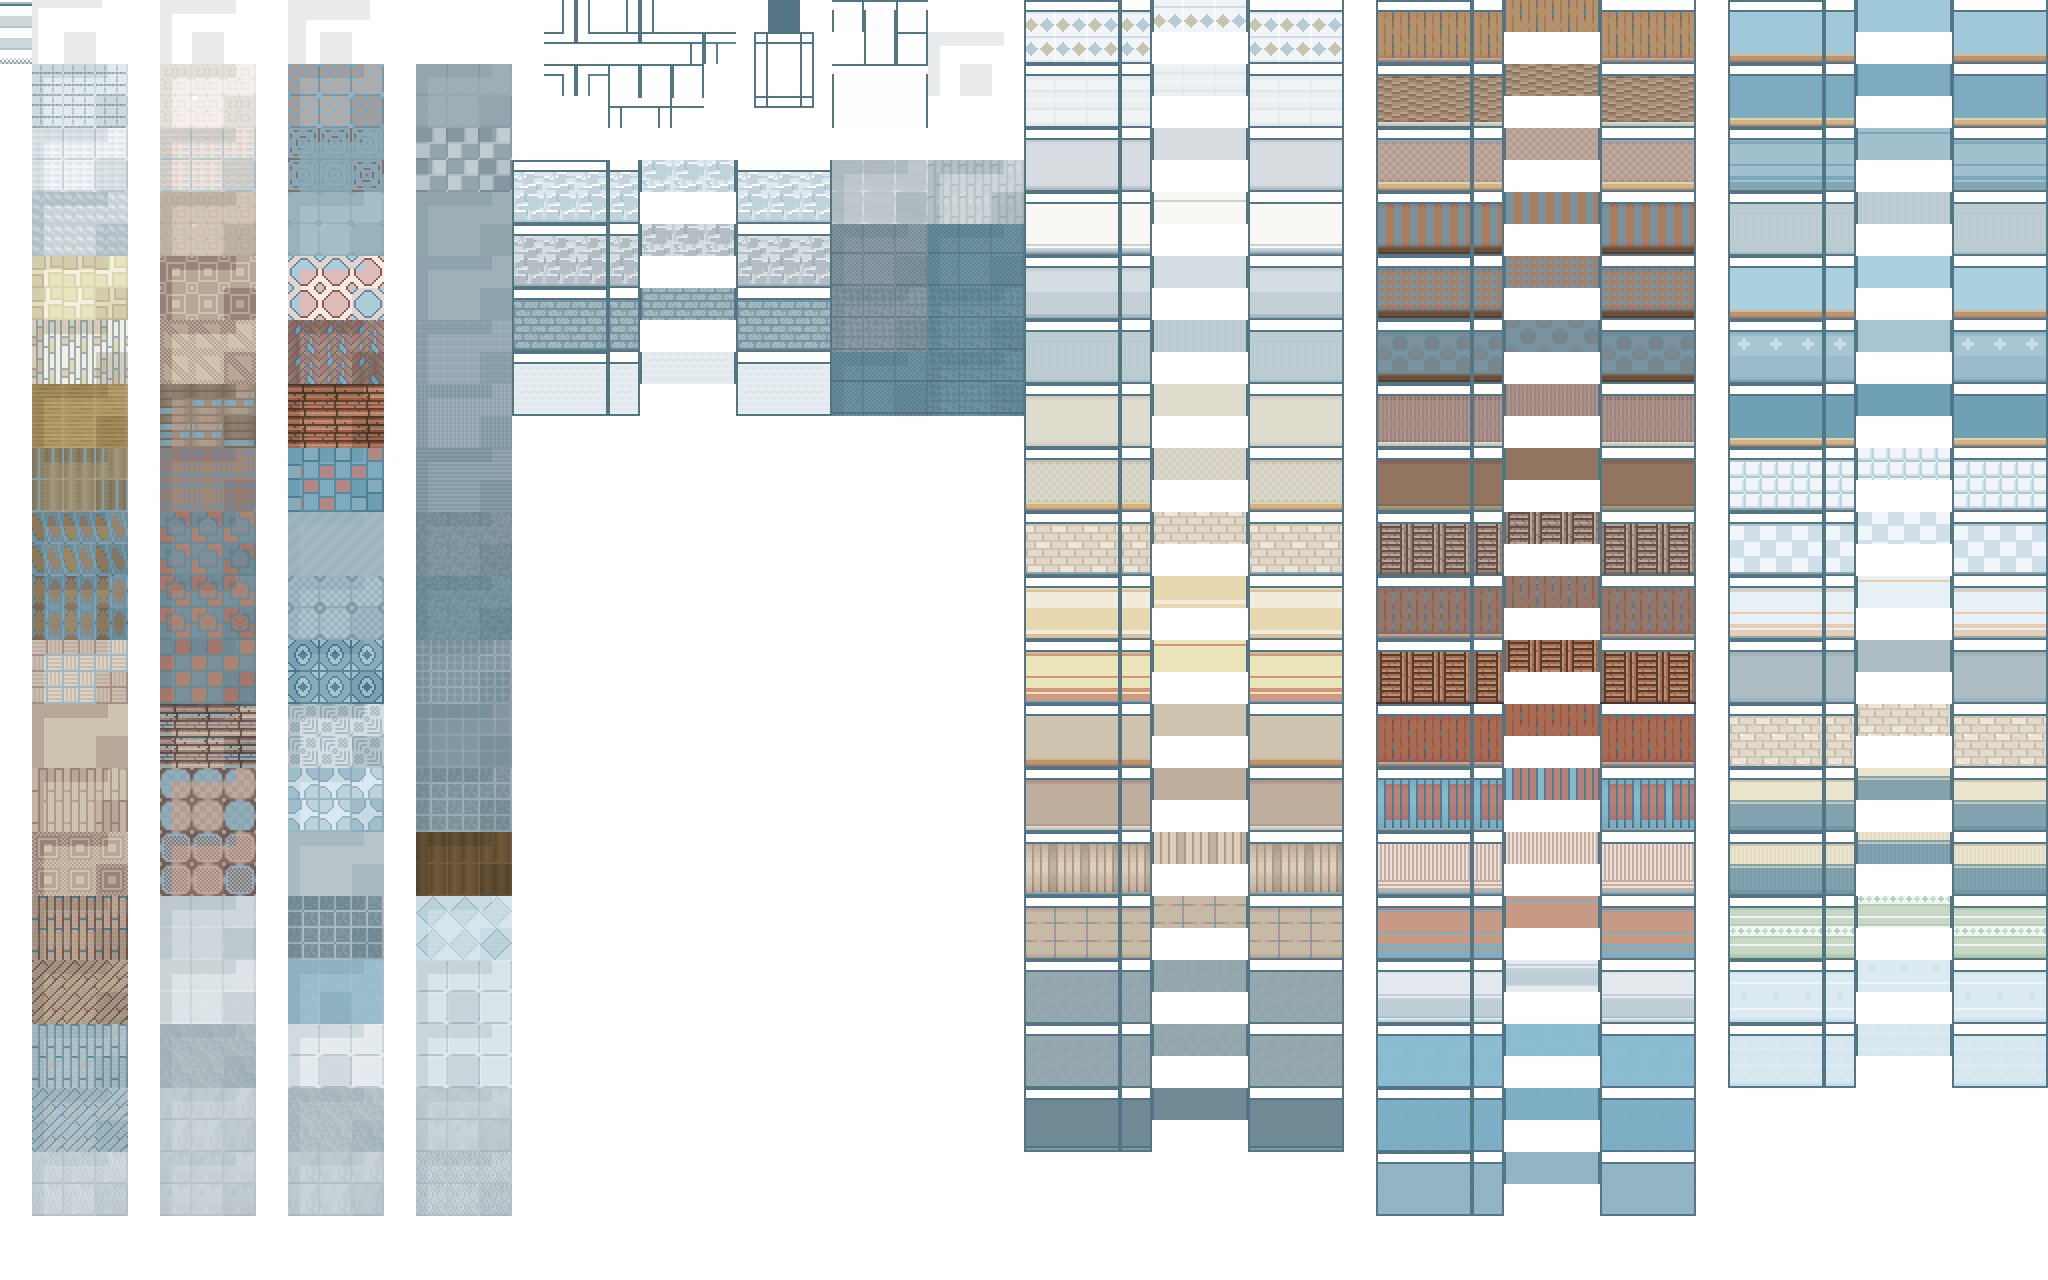
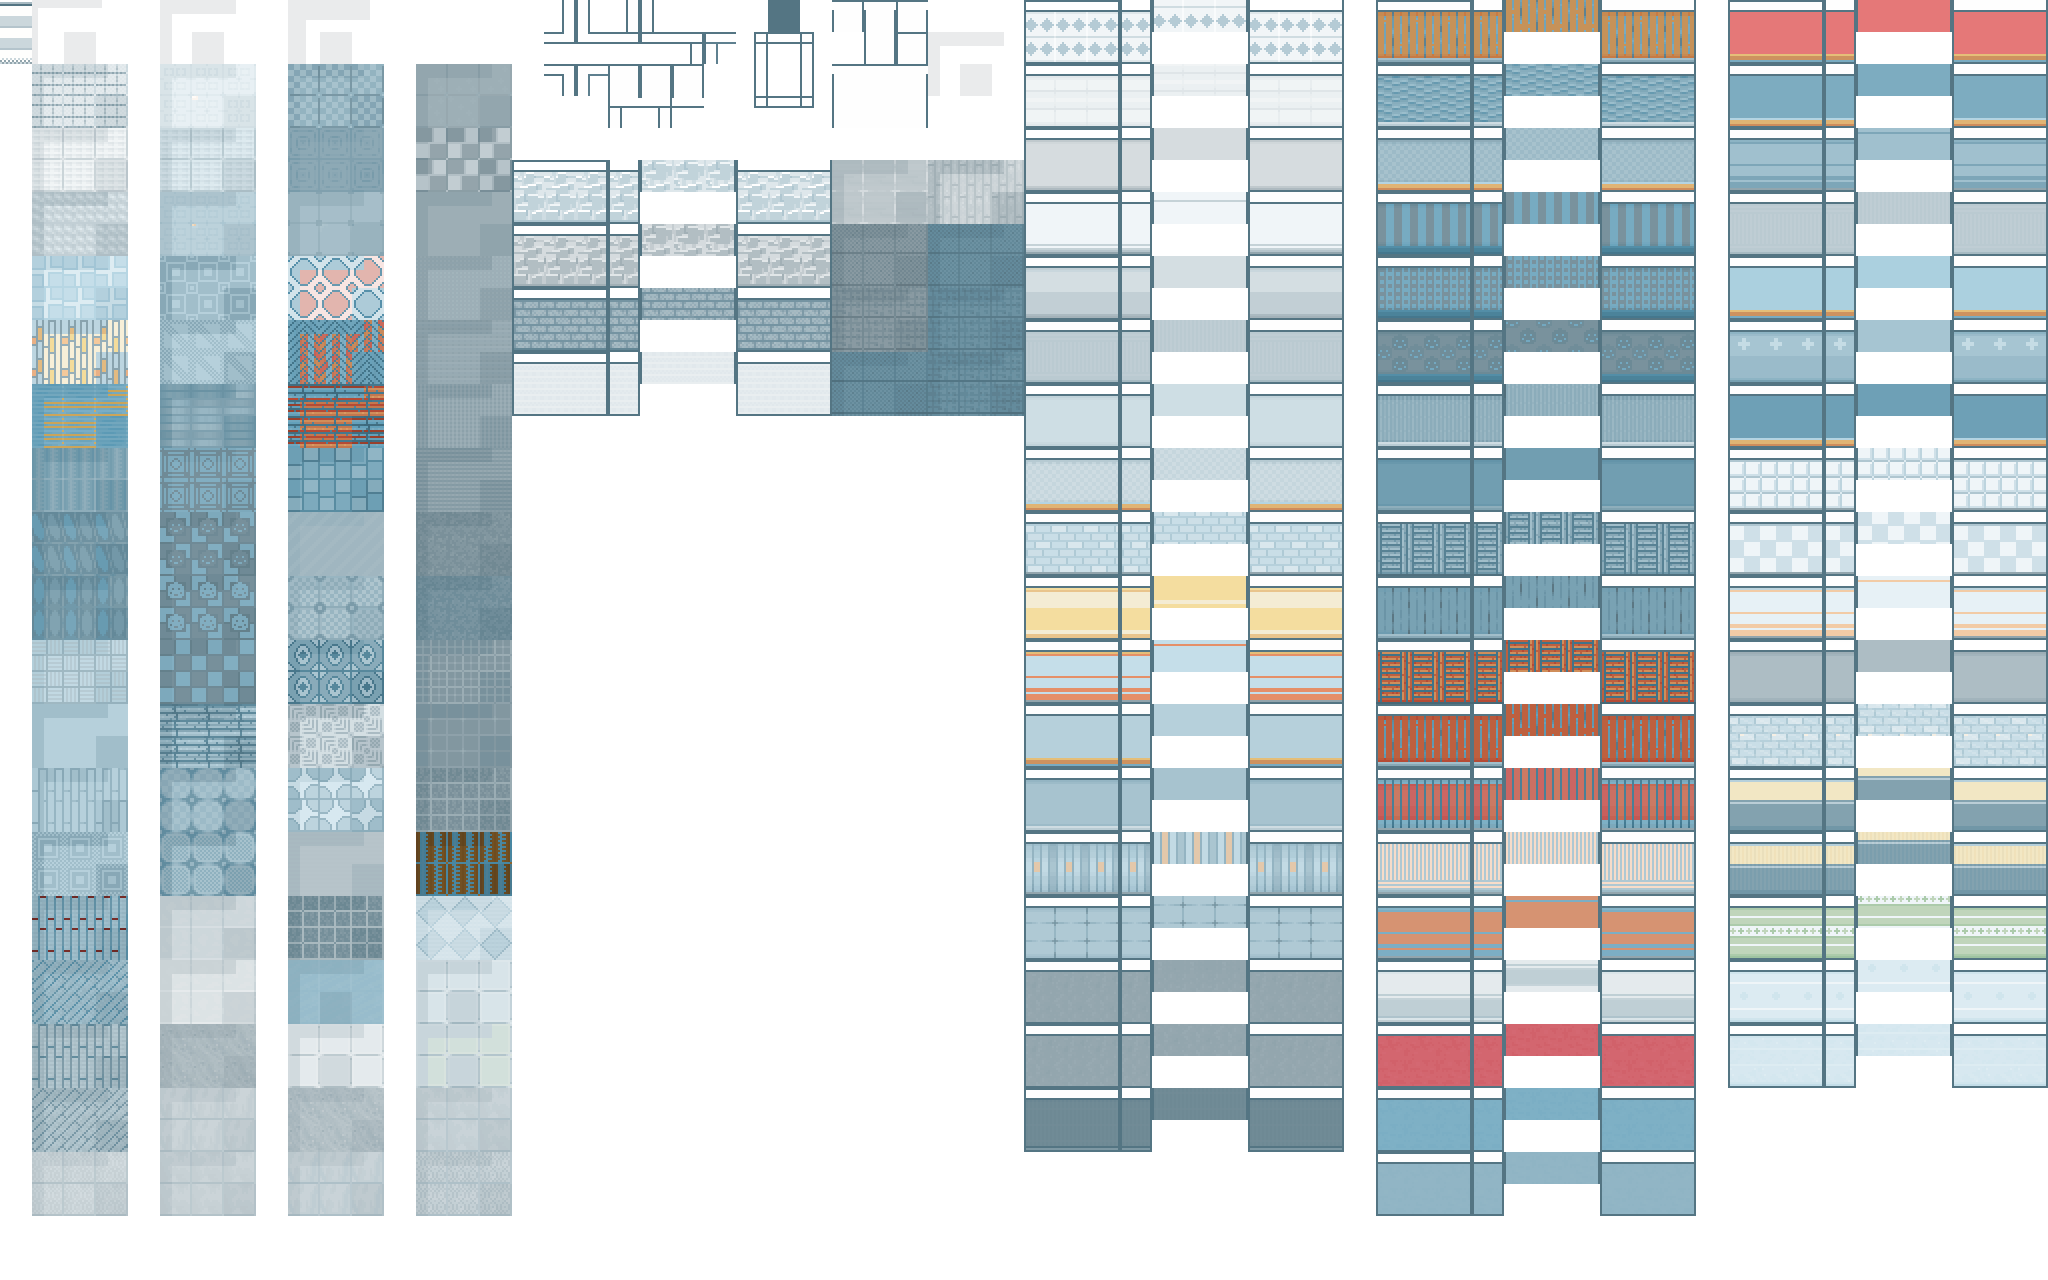
Ice the browns too, keep the warm props, drop the night toggle
Three changes to the room, in the order they came up.

The browns and ochres are gone. They had been exempted on the theory
that a room with nothing warm in it looks dead, but keeping every wooden
door and ochre carpet warm left half the map looking like an office that
had merely been snowed on.

Icing all of them went too far the other way, so the exemption is back -
narrower. It now turns on saturation, not hue alone: muted browns are
wood and carpet and go to ice, while vivid warm colours are the small
props, and those stay. Warmth belongs where you notice it as a point,
not across half the floor. Plants keep their green for the same reason.

The furniture needed the same treatment - chairs, computers, whiteboards
and the vending machine live in assets/items rather than in a tileset,
so they had stayed office-orange while everything around them iced over.

The day/night toggle is gone with its store action. The theme is built
around glare off the snow and the night palette no longer belongs to any
part of the product; leaving a button that switched to it just invited
half the members into a different-looking room.

diff --git a/client/src/components/HelperButtonGroup.tsx b/client/src/components/HelperButtonGroup.tsx
@@ -6,8 +6,6 @@ import Avatar from '@mui/material/Avatar'
 import Tooltip from '@mui/material/Tooltip'
 import HelpOutlineIcon from '@mui/icons-material/HelpOutline'
 import ShareIcon from '@mui/icons-material/Share'
-import LightModeIcon from '@mui/icons-material/LightMode'
-import DarkModeIcon from '@mui/icons-material/DarkMode'
 import CloseIcon from '@mui/icons-material/Close'
 import LightbulbIcon from '@mui/icons-material/Lightbulb'
 import ArrowRightIcon from '@mui/icons-material/ArrowRight'
@@ -16,8 +14,7 @@ import TwitterIcon from '@mui/icons-material/Twitter'
 import VideogameAssetIcon from '@mui/icons-material/VideogameAsset'
 import VideogameAssetOffIcon from '@mui/icons-material/VideogameAssetOff'
 
-import { BackgroundMode } from '../../../types/BackgroundMode'
-import { setShowJoystick, toggleBackgroundMode } from '../stores/UserStore'
+import { setShowJoystick } from '../stores/UserStore'
 import { useAppSelector, useAppDispatch } from '../hooks'
 import { getAvatarString, getColorByString } from '../util'
 
@@ -125,7 +122,6 @@ export default function HelperButtonGroup() {
   const [showControlGuide, setShowControlGuide] = useState(false)
   const [showRoomInfo, setShowRoomInfo] = useState(false)
   const showJoystick = useAppSelector((state) => state.user.showJoystick)
-  const backgroundMode = useAppSelector((state) => state.user.backgroundMode)
   const roomJoined = useAppSelector((state) => state.room.roomJoined)
   const roomId = useAppSelector((state) => state.room.roomId)
   const roomName = useAppSelector((state) => state.room.roomName)
@@ -240,11 +236,6 @@ export default function HelperButtonGroup() {
         <Tooltip title="Follow Us on Twitter">
           <StyledFab size="small" href="https://twitter.com/SkyOfficeApp" target="_blank">
             <TwitterIcon />
-          </StyledFab>
-        </Tooltip>
-        <Tooltip title="낮/밤 전환">
-          <StyledFab size="small" onClick={() => dispatch(toggleBackgroundMode())}>
-            {backgroundMode === BackgroundMode.DAY ? <DarkModeIcon /> : <LightModeIcon />}
           </StyledFab>
         </Tooltip>
       </ButtonGroup>

diff --git a/client/src/stores/UserStore.ts b/client/src/stores/UserStore.ts
@@ -2,13 +2,11 @@ import { createSlice, PayloadAction } from '@reduxjs/toolkit'
 import { sanitizeId } from '../util'
 import { BackgroundMode } from '../../../types/BackgroundMode'
 
-import phaserGame from '../PhaserGame'
-import Bootstrap from '../scenes/Bootstrap'
 
 /**
- * Always open on the polar day. The igloo theme is built around glare off the
- * snow, and starting members in the dark just because they logged on after six
- * put them in a different-looking product. Night is still one click away.
+ * The igloo is a daytime place. The theme is built around glare off the snow,
+ * and there is no way to switch away from it any more - the toggle went with
+ * the button that used to sit in the corner.
  */
 export function getInitialBackgroundMode() {
   return BackgroundMode.DAY
@@ -25,14 +23,6 @@ export const userSlice = createSlice({
     showJoystick: window.innerWidth < 650,
   },
   reducers: {
-    toggleBackgroundMode: (state) => {
-      const newMode =
-        state.backgroundMode === BackgroundMode.DAY ? BackgroundMode.NIGHT : BackgroundMode.DAY
-
-      state.backgroundMode = newMode
-      const bootstrap = phaserGame.scene.keys.bootstrap as Bootstrap
-      bootstrap.changeBackgroundMode(newMode)
-    },
     setSessionId: (state, action: PayloadAction<string>) => {
       state.sessionId = action.payload
     },
@@ -55,7 +45,6 @@ export const userSlice = createSlice({
 })
 
 export const {
-  toggleBackgroundMode,
   setSessionId,
   setVideoConnected,
   setLoggedIn,

diff --git a/client/src/scenes/Bootstrap.ts b/client/src/scenes/Bootstrap.ts
@@ -37,19 +37,19 @@ export default class Bootstrap extends Phaser.Scene {
       frameWidth: 32,
       frameHeight: 32,
     })
-    this.load.spritesheet('chairs', 'assets/items/chair.png', {
+    this.load.spritesheet('chairs', 'assets/items/chair_polar.png', {
       frameWidth: 32,
       frameHeight: 64,
     })
-    this.load.spritesheet('computers', 'assets/items/computer.png', {
+    this.load.spritesheet('computers', 'assets/items/computer_polar.png', {
       frameWidth: 96,
       frameHeight: 64,
     })
-    this.load.spritesheet('whiteboards', 'assets/items/whiteboard.png', {
+    this.load.spritesheet('whiteboards', 'assets/items/whiteboard_polar.png', {
       frameWidth: 64,
       frameHeight: 64,
     })
-    this.load.spritesheet('vendingmachines', 'assets/items/vendingmachine.png', {
+    this.load.spritesheet('vendingmachines', 'assets/items/vendingmachine_polar.png', {
       frameWidth: 48,
       frameHeight: 72,
     })

diff --git a/scripts/polarize-tilesets.py b/scripts/polarize-tilesets.py
@@ -1,11 +1,20 @@
 """
-Recolour the office tilesets into an iced-over version.
+Recolour the office tilesets and furniture into an iced-over version.
 
 Unlike the character sheets these have hundreds of colours, so remapping ramp by
 ramp is not practical. Instead each pixel is pushed toward the polar palette in
 HLS: hue is pulled to ice-blue, saturation is cut, and lightness is lifted so
-the room reads as snow-lit rather than office-lit. Warm woods and plants are
-left alone - a room with nothing warm in it looks dead.
+the room reads as snow-lit rather than office-lit.
+
+Two things are spared. Greenery, because plants are the one thing in the room
+that reads as alive rather than as furniture. And vivid warm accents - a red
+mug, a lamp, the vending machine's front - because a room of nothing but ice
+reads as empty rather than as cold.
+
+The split is by saturation, not by hue alone. Big surfaces (wood floors, ochre
+carpet, tan desks) are muted browns and go to ice; the things that stay warm are
+the small, saturated props, which is exactly where warmth belongs - as points
+you notice, not as half the map.
 
 Run from the repo root:  python3 scripts/polarize-tilesets.py
 """
@@ -18,21 +27,45 @@ TARGETS = [
     ('client/public/assets/tileset/Generic.png', 'Generic_polar.png'),
     ('client/public/assets/tileset/Basement.png', 'Basement_polar.png'),
     ('client/public/assets/map/FloorAndGround.png', 'FloorAndGround_polar.png'),
+    # the furniture is not part of the tilesets - chairs in particular stayed
+    # office-orange while everything around them had already iced over
+    ('client/public/assets/items/chair.png', 'chair_polar.png'),
+    ('client/public/assets/items/computer.png', 'computer_polar.png'),
+    ('client/public/assets/items/whiteboard.png', 'whiteboard_polar.png'),
+    ('client/public/assets/items/vendingmachine.png', 'vendingmachine_polar.png'),
 ]
 
 ICE_HUE = 0.55  # cyan-blue
 
+# hues that count as greenery and keep their colour
+GREEN_RANGE = (0.22, 0.45)
+# reds through ambers - warm enough to be an accent if it is vivid enough
+WARM_MAX_HUE = 0.13
+# below this a warm colour is just wood or carpet, not an accent
+ACCENT_SATURATION = 0.45
+
+
+def is_greenery(h, s):
+    return GREEN_RANGE[0] < h < GREEN_RANGE[1] and s > 0.18
+
+
+def is_warm_accent(h, s):
+    return (h <= WARM_MAX_HUE or h >= 0.95) and s >= ACCENT_SATURATION
+
+
 def polarize(r, g, b):
     h, l, s = colorsys.rgb_to_hls(r / 255, g / 255, b / 255)
 
-    # leave the warm things warm: wood, plants, skin-ish props
-    warm = 0.02 < h < 0.42
-    if warm and s > 0.18:
-        # only cool them slightly so they still read as themselves
-        s *= 0.72
-        l = min(1.0, l * 1.05)
+    if is_greenery(h, s):
+        # plants: cool them a little so they sit in the same light as the ice
+        s *= 0.8
+        l = min(1.0, l * 1.02)
+    elif is_warm_accent(h, s):
+        # let the accents glow a touch, so they carry against all that blue
+        s = min(1.0, s * 1.05)
+        l = min(1.0, l * 1.04)
     else:
-        # everything else drifts toward ice
+        # everything else - including every brown and ochre - drifts toward ice
         h = ICE_HUE
         s = min(0.45, s * 0.6 + 0.12)
         l = min(1.0, l * 0.82 + 0.2)
